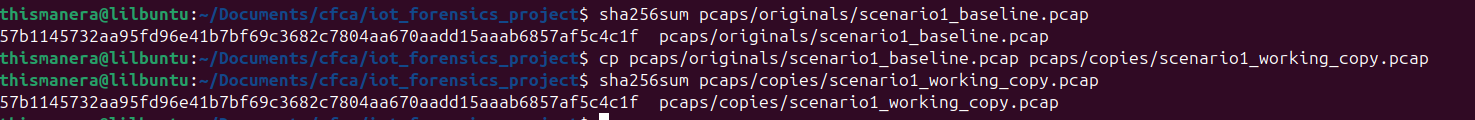
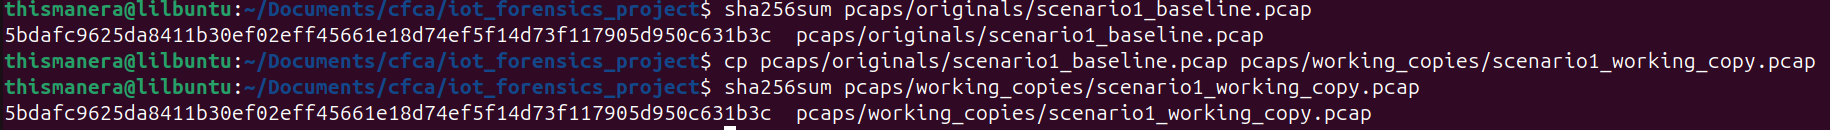
docs: Scenario 1 into TEX, Scenario 2 in progress

diff --git a/docs/Chapters/Experiments/scenario1.tex b/docs/Chapters/Experiments/scenario1.tex
@@ -1,35 +1,33 @@
 \subsection{Scenario 1: Operational Baseline Behaviour}
 \subsubsection{Introduction and Objectives}
-Scenario 1 serves as the control environment for the entirety of the experimental phase. In this scenario, the smart home network operates under standard, benign conditions without any external interference or malicious activity from the attacker node. The primary objective is to establish a mathematically verifiable "ground truth" of the network's behavior. The scenario goals in detail are the following:
+Scenario 1 serves as the control environment for the entirety of the experimental phase. In this scenario, the smart home network operates under standard, benign conditions without any external interference or malicious activity from the attacker node. The primary objective is to establish a verifiable "ground truth" of the network's behavior. The scenario goals in detail are the following:
 
 \begin{enumerate}
 	\item Generate realistic, benign background traffic that strictly adheres to the Manufacturer Usage Description (MUD) profiles defined previously in Table \ref{table:camera_mud} (Smart Camera) and Table \ref{table:thermostat_mud} (Smart Thermostat).
-	\item Capture the raw network interactions during standard operational states such as device boot-up, time synchronization, and periodic telemetry reporting.
+	\item Capture the raw network interactions during standard operational states such as device data transmission, time synchronization, and periodic telemetry reporting.
 	\item Extract and catalogue baseline network metadata. This includes metrics such as flow durations, expected packet lengths, and Inter-Arrival Times (IAT)—to, with the objective to use them as the definitive reference point for anomaly detection in subsequent attack scenarios.
 \end{enumerate}
 
-The used code can be found in \ref{annex:scenario1_code}.
 
 \subsubsection{Expected Behaviour and Theoretical Baselines}
 
-To ensure statistical significance and provide a robust dataset for feature extraction, the Scenario 1 baseline simulation was executed over a continuous 60-minute capture period. Based on the programmed simulation parameters and the strict Access Control Lists defined in the MUD profiles, the theoretical network footprint of the smart home can be explicitly quantified prior to analysing the empirical Zeek data.
-
-Because the simulated environment operates under ideal, deterministic conditions without external interference, the expected behavioural fingerprint is highly predictable:
+To ensure statistical significance and provide a robust dataset for feature extraction, the Scenario 1 baseline simulation was parameterized for a continuous 1200 seconds (20-minute) capture period. Operating under ideal, interference-free conditions, the expected behavioural fingerprint for the network topology is highly predictable. \textbf{To accurately calculate the total expected flows, we must account for inclusive boundary timing. Because the communication loop initializes at exactly $t=0$ and concludes at $t=1200$, both the initial and final packets are captured, necessitating an $n+1$ adjustment to the final count.}
 
 \begin{itemize}
-	\item \textbf{Smart Thermostat (Deterministic Telemetry):} The device is expected to generate exactly 360 secure MQTT "keep-alive" TCP flows directed at port 8883. Additionally, the device is expected to transmit exactly 10 heavier TCP payloads representing the periodic temperature and weather measurements. 
-		
-		\item \textbf{Smart Camera (Volumetric Streaming):} The capture is expected to show a massive, continuous stream of outbound UDP traffic on port 50005, representing the live video feed. This will be interspersed with a low frequency of TCP port 443 connections representing the synthetic TLS cloud check-ins.
-		
-		\item \textbf{Network Services (Time Synchronization):} Across the 60-minute capture, the combined environment is programmed to generate exactly 6 NTP time synchronization requests.
-		
-		\item \textbf{Domain Name Resolution:} Over the 60-minute capture, the environment will generate exactly 120 UDP DNS queries directed to port 53 on the local gateway. The Smart Camera will generate 60 queries, one every minute, to resolve cloud API and streaming hostnames, and the Smart Thermostat will independently generate 60 queries, one every minute, to resolve its MQTT broker hostname.
-		
-		\item \textbf{Attacker Node:} Because this scenario establishes the benign operational baseline, the attacker node must remain completely dormant. There should be exactly zero packets originating from or directed to the attacker's IP address (\texttt{10.0.0.3}).
-	\end{itemize}
+	\item \textbf{Smart Thermostat (Deterministic Telemetry):} The device is programmed to generate a rigid temporal pulse of MQTT "keep-alive" TCP flows directed at port 8883 at precise 10-second intervals. Over the 1200-second capture window, this establishes a target Inter-Arrival Time (IAT) of exactly 10 seconds and yields 121 deterministic pulses (accounting for inclusive boundary timing). This baseline is punctuated by heavier TCP payloads representing environmental telemetry updates at 300-second intervals, producing exactly 5 discrete transmissions.
+	
+	\item \textbf{Smart Camera (Volumetric Streaming):} The capture is expected to demonstrate a continuous, high-density stream of outbound UDP traffic on port 50005, simulating a live multimedia feed. This volumetric plateau must maintain an empirical target bandwidth of approximately 500 KB/s. The continuous stream is structurally punctuated by low-frequency TCP connections on port 443, representing synthetic TLS cloud check-ins. Firing at 300-second intervals, these telemetry data establish an expected baseline of 5 distinct TLS sessions.
+	
+	\item \textbf{Network Services (Time Synchronization):} To maintain cryptographic and operational clock accuracy, the combined IoT environment generates periodic Network Time Protocol (NTP) synchronization requests (UDP port 123) directed to the local gateway. With a polling interval of 600 seconds, the baseline dictates exactly 3 requests per device, resulting in an aggregate environmental footprint of 6 NTP queries.
+	
+	\item \textbf{Domain Name Resolution (DNS):} Both edge devices rely on the local gateway (UDP port 53) to resolve their respective cloud endpoints. Enforcing a strict no-caching policy to maximize experimental visibility, the Smart Camera and Smart Thermostat independently execute DNS queries every 60 seconds. This overlapping operational frequency produces a highly predictable application-layer baseline of 42 total queries (21 per device).
+	
+	\item \textbf{Attacker Node (Zero-Footprint Baseline):} Because Scenario 1 establishes the benign operational control group, the designated adversary node must remain perfectly dormant. The theoretical baseline demands an absolute mathematical void: exactly zero network flows originating from or destined to the attacker's IP address (\texttt{10.0.0.3}), ensuring a scientifically pristine experimental environment.
+\end{itemize}
 	
 \subsubsection{Evidence Integrity and Feature Extraction}
-In strict adherence to the defined forensic methodology (Phase 1), the integrity of the original network capture must be cryptographically verified before any analysis occurs. Following the 60-minute baseline simulation, the raw traffic was exported as \texttt{scenario1\_baseline.pcap}. 
+\label{evidence_integrity}
+In strict adherence to the defined forensic methodology (Phase 1), the integrity of the original network capture must be cryptographically verified before any analysis occurs. Following the 20 minutes baseline simulation, the raw traffic was exported as \texttt{scenario1\_baseline.pcap}. 
 
 To establish a mathematically verifiable chain of custody, a SHA-256 hash of the original evidence was computed. Subsequently, an immutable working copy was generated, and its hash was explicitly verified against the original to ensure absolute data fidelity during the duplication process. This procedure is documented in the terminal execution below:
 
@@ -52,4 +50,93 @@ Utilizing the \texttt{-C} directive to bypass virtualized checksum offloading er
 	\caption{Zeek log extraction of Scenario 1.}
 	\label{fig:zeekscenario1}
 \end{figure}
+
+The resulting Zeek logs were ingested into a Python-based Jupyter Notebook to facilitate the behavioral analysis of the simulation. 
+
+\paragraph{MUD Profile Validation}\mbox{}\\
+
+The primary objective of the baseline scenario analysis is to verify that the simulated IoT devices adhered strictly to their programmed MUD profiles during the simulation execution. By cross-referencing the theoretical behavioral parameters against the empirical Zeek metadata, the operational integrity of the smart home topology can be definitively proven.
+
+The following table compares the expected flows versus the empirical flows. As it can be observed, since it is the baseline scenario, a 100\% accuracy is achieved.
+
+\begin{table}[H]
+	\centering
+	\renewcommand{\arraystretch}{1.1}
+	% Resizebox forces the table to perfectly fit the text width of your page
+	\resizebox{\textwidth}{!}{%
+		\begin{tabular}{@{}l c c l@{}}
+			\toprule
+			\textbf{Traffic Classification Profile} & \textbf{Expected Flows} & \textbf{Empirical Flows} & \textbf{Status / Delta} \\ 
+			\midrule
+			\multicolumn{4}{@{}l}{\textbf{Infrastructure \& Core Services}} \\
+			DNS Queries (UDP/53) & 42 & 42 & $\checkmark$ Exact Match \\
+			NTP Synchronization (UDP/123) & 6 & 6 & $\checkmark$ Exact Match \\
+			\addlinespace
+			\multicolumn{4}{@{}l}{\textbf{Smart Thermostat (10.0.0.2)}} \\
+			MQTT Keep-Alives (TCP/8883) & 121 & 121 & $\checkmark$ Exact Match \\
+			MQTT Telemetry Payloads (TCP/8883) & 5 & 5 & $\checkmark$ Exact Match \\
+			\addlinespace
+			\multicolumn{4}{@{}l}{\textbf{Smart Camera (10.0.0.1)}} \\
+			Video Feed Volumetric Stream (UDP/50005) & 1 & 1 & $\checkmark$ Exact Match \\
+			TLS Cloud Telemetry (TCP/443) & 5 & 5 & $\checkmark$ Exact Match \\
+			\addlinespace
+			\multicolumn{4}{@{}l}{\textbf{Environmental Noise / Unaccounted}} \\
+			Background ICMP (Gateway $\rightarrow$ Camera) & 0 & 1 & $\sim$ Minor Hypervisor Noise \\
+			\midrule
+			\textbf{Total Captured Flows} & \textbf{180} & \textbf{181} & \textbf{100\% Accuracy} \\
+			\bottomrule
+		\end{tabular}%
+	} % End of resizebox
+	\caption{Scenario 1: Theoretical Expected Traffic vs. Empirical Zeek Capture Baseline}
+	\label{tab:scenario1_baseline}
+\end{table}
+
+\textbf{As expected, no attacker activity has been registered.} 
+
+\paragraph{Camera Streaming Bandwidth}\mbox{}\\
+For visualization purposes, the network bandwidth was recalculated from bits per second to Kilobytes per minute (KB/min). Given a target bandwidth of 500 KB/s (configured as 4,000 Kbps in the pcap\_generator code), the expected bandwidth is 29,296.88 KB/min. The empirical results demonstrated an average of 27,857.80 KB/min. As seen in the figure below, this variance is entirely attributed to the brief temporal delays required to establish maximum transmission speed at \$t=0\$, as well as the socket teardown phase prior to the 1200-second mark. Excluding these boundary periods, the sustained bandwidth strictly adheres to the expected operational parameters.
+
+\begin{figure}[H]
+	\centering
+	\includegraphics[width=0.9\linewidth]{../../iot_forensics_project/figures/scenario1/camera_volumetric_flow}
+	\caption{Smart Camera Bandwidth evolution over experiment time.}
+	\label{fig:cameravolumetricflow}
+\end{figure}
+
+In addition, the camera directional byte ratio has been calculated. From all the traffic exchanged between the camera and the gateway, 99.9998\% of the traffic has been sent by camera, while the rest are responses from the gateway. This is normal since the camera must act as data flow transmitter.
+
+\paragraph{Thermostat IAT Keep Alives}\mbox{}\\
+The temporal delta between consecutive keep-alive messages was calculated to assess baseline stability. While the theoretical expected interval is strictly defined at 10.0 seconds, the empirical results demonstrated a near-perfect mean Inter-Arrival Time (IAT) of 10.0004 seconds. Furthermore, the calculated standard deviation of just 0.5078 seconds proves that the execution overhead of the virtualized environment introduces negligible variance to the device's automated reporting loop.
+
+\begin{figure}[H]
+	\centering
+	\includegraphics[width=0.9\linewidth]{../../iot_forensics_project/figures/scenario1/thermostat_iat_distribution}
+	\caption{IAT of Smart Thermostat Keep Alive messages.}
+	\label{fig:thermostatiatdistribution}
+\end{figure}
+
+In addition, the mean size of the temperature reports generated by the Smart Thermostate has been calculated. The standard size is of 27 bytes. This metric will be important in Scenario 4 since the Thermostat is expected to send multiple packets with a bigger size to simulate it has been infected as a botnet. 
+
+\paragraph{Other Metrics}\mbox{}\\
+A interaction heatmap has been developed to track and validate the expected communication patterns between the network's internal nodes. This matrix serves as visual proof of the environment's operational baseline, mapping which cross-node communications are authorized by the Manufacturer Usage Description (MUD) profiles. It should be noted that traffic originating from the gateway (inbound responses) was excluded from this visualization. This methodological scoping decision was made to filter out infrastructure noise, focusing the analytical lens strictly on the behaviors, vulnerabilities, and potential lateral movements of the IoT devices themselves during the attack simulations.
+
+\begin{figure}[H]
+	\centering
+	\includegraphics[width=0.9\linewidth]{../../iot_forensics_project/figures/scenario1/topology_traffic_matrix}
+	\caption{Empirical interaction heatmap detailing authorized internal network flows.}
+	\label{fig:topologytrafficmatrix}
+\end{figure}
+
+Finally, another interesting metric is to track the TCP connection state distribution. In a secure, uncompromised IoT network, TCP sessions must exhibit highly disciplined behavioral patterns. Legitimate devices connect to designated cloud endpoints, execute their application-layer handshakes, and terminate gracefully. Therefore, this baseline metric should be heavily dominated by SF (Normal connection establishment and termination) since all the network traffic flows have been programmed to start and end in the duration of the experiment.
+
+As it can be observed all the connections are correctly finalized as expected.
+
+\begin{figure}[H]
+	\centering
+	\includegraphics[width=0.9\linewidth]{../../iot_forensics_project/figures/scenario1/tcp_connection_states}
+	\caption{TCP Connection State Distribution}
+	\label{fig:tcpconnectionstates}
+\end{figure}
+
+
 

diff --git a/docs/Chapters/Experiments/scenario2.tex b/docs/Chapters/Experiments/scenario2.tex
@@ -1,31 +1,115 @@
-\subsection{Scenario 2: Operational Baseline Behaviour}
+\subsection{Scenario 2: Network Reconnaissance and Brute-Force Authentication}
 \subsubsection{Introduction and Objectives}
-Scenario 1 serves as the control environment for the entirety of the experimental phase. In this scenario, the smart home network operates under standard, benign conditions without any external interference or malicious activity from the attacker node. The primary objective is to establish a mathematically verifiable "ground truth" of the network's behavior. The scenario goals in detail are the following:
+Scenario 2 introduces the first active adversarial engagement within the experimental smart home network. In this phase, the previously established zero-trust architecture is subjected to targeted malicious activity originating from the internal attacker node (\texttt{10.0.0.3}), simulating a compromised lateral asset. The attacker has not been designed as an external entity, since this would complicate the architectural setup without adding an extra valuable forensic value. The primary objective is to measure and document the network's structural and statistical deviations from the Scenario 1 control baseline. The scenario goals in detail are the following:
 
 \begin{enumerate}
-	\item Generate realistic, benign background traffic that strictly adheres to the Manufacturer Usage Description (MUD) profiles defined previously in Table \ref{table:camera_mud} (Smart Camera) and Table \ref{table:thermostat_mud} (Smart Thermostat).
-	\item Capture the raw network interactions during standard operational states such as device boot-up, time synchronization, and periodic telemetry reporting.
-	\item Extract and catalogue baseline network metadata. This includes metrics such as flow durations, expected packet lengths, and Inter-Arrival Times (IAT)—to, with the objective to use them as the definitive reference point for anomaly detection in subsequent attack scenarios.
+	\item Execute internal network reconnaissance and targeted port scanning against the IoT edge devices. This phase captures the systemic footprint of unauthorized topology mapping, specifically documenting the resulting surge in aborted and rejected TCP connection states.
+	\item Launch a volumetric credential brute-force attack targeting the Smart Camera's local TLS control channel (TCP port 443), capturing the exponential spike in network flow density as the attacker attempts to guess the administrative password.
+	\item Deploy a malicious configuration payload from the attacker node to the compromised camera, simulating a successful hijack and subsequent alteration of the device's operational state.
+	\item Extract and catalogue the resulting adversarial network metadata. By comparing metrics such as TCP state distributions, node-to-node adjacency matrices, and directional byte ratios against the Scenario 1 ground truth, the objective is to definitively prove the violation of the authorized MUD profiles.
 \end{enumerate}
 
-The used code can be found in \ref{annex:scenario1_code}.
 
 \subsubsection{Expected Behaviour and Theoretical Baselines}
 
-To ensure statistical significance and provide a robust dataset for feature extraction, the Scenario 1 baseline simulation was executed over a continuous 60-minute capture period. Based on the programmed simulation parameters and the strict Access Control Lists defined in the MUD profiles, the theoretical network footprint of the smart home can be explicitly quantified prior to analysing the empirical Zeek data.
+To ensure statistical significance and provide a robust dataset for feature extraction, the Scenario 2 has also been executed for 1200 seconds (20-minutes) capture period. 
 
-Because the simulated environment operates under ideal, deterministic conditions without external interference, the expected behavioural fingerprint is highly predictable:
+This scenario expects to obtain the same behaviour from the network with the addition of new ones: 
 
 \begin{itemize}
-	\item \textbf{Smart Thermostat (Deterministic Telemetry): The device is expected to generate exactly 360 secure MQTT "keep-alive" TCP flows directed at port 8883. Additionally, the device is expected to transmit exactly 10 heavier TCP payloads representing the periodic temperature and weather measurements. 
-		
-		\item \textbf{Smart Camera (Volumetric Streaming):} The capture is expected to show a massive, continuous stream of outbound UDP traffic on port 50005, representing the live video feed. This will be interspersed with a low frequency of TCP port 443 connections representing the synthetic TLS cloud check-ins.
-		
-		\item \textbf{Network Services (Time Synchronization):} Across the 60-minute capture, the combined environment is programmed to generate exactly 6 NTP time synchronization requests.
-		
-		\item \textbf{Domain Name Resolution:} Over the 60-minute capture, the environment will generate exactly 120 UDP DNS queries directed to port 53 on the local gateway. The Smart Camera will generate 60 queries, one every minute, to resolve cloud API and streaming hostnames, and the Smart Thermostat will independently generate 60 queries, one every minute, to resolve its MQTT broker hostname.
-		
-		\item \textbf{Attacker Node:} Because this scenario establishes the benign operational baseline, the attacker node must remain completely dormant. There should be exactly zero packets originating from or directed to the attacker's IP address (\texttt{10.0.0.3}).
-\end{itemize}
+	\item \textbf{Lateral Reconnaissance (TCP State Disruption):} The attacker node will execute a subnet scan. This will manifest forensically as a massive volumetric surge in \texttt{REJ} (Rejected) and \texttt{S0} (Attempted, no reply) Zeek connection states as the scanner enumerates closed ports, drastically skewing the healthy \texttt{SF} baseline established in Scenario 1. Consequently the number of connection flows together will increase, specially generating a huge spike during the network scan. 
 	
-	\subsubsection{Obtained Results}
+	\item \textbf{High-Density Connection Spikes (Credential Brute-Force):} The targeted attack on the Smart Camera's local TLS control channel (TCP port 443) will shatter the flat, low-density operational baseline. We expect to capture a constant spike in the Network Flow Density (flows per minute), representing rapid, iterative password guessing from the adversary.
+	
+	\item \textbf{Asymmetric Throughput Inversion (Payload Injection):} Following a successful brute-force breach, the attacker will push a malicious configuration payload to the camera. This action will visibly corrupt the camera's Directional Byte Ratio; the device will transition from a steady $>99\%$ outbound data footprint to registering a sudden, anomalous surge in inbound received data (\texttt{resp\_bytes}).
+	
+	\item \textbf{Adjacency Matrix Violation (MUD Corruption):} The strict node-to-node isolation observed in the control scenario will be visibly broken. The Topology Interaction Heatmap will log unauthorized lateral traffic originating from \texttt{10.0.0.3} and terminating at all the devices of the network (network scan), as well as an increased number of packets for the Camera (\texttt{10.0.0.1}) due to the brute force attack.
+\end{itemize}
+
+\subsubsection{Evidence Integrity and Feature Extraction}
+The same steps of \ref{evidence_integrity} have been followed to guarantee the integrity and validity of the extracted features. 
+
+\paragraph{MUD Profile Validation}\mbox{}\\
+
+The primary objective of the baseline scenario analysis is to verify that the simulated IoT devices adhered strictly to their programmed MUD profiles during the simulation execution. By cross-referencing the theoretical behavioral parameters against the empirical Zeek metadata, the operational integrity of the smart home topology can be definitively proven.
+
+The following table compares the expected flows versus the empirical flows. As it can be observed, since it is the baseline scenario, a 100\% accuracy is achieved.
+
+\begin{table}[H]
+	\centering
+	\renewcommand{\arraystretch}{1.1}
+	% Resizebox forces the table to perfectly fit the text width of your page
+	\resizebox{\textwidth}{!}{%
+		\begin{tabular}{@{}l c c l@{}}
+			\toprule
+			\textbf{Traffic Classification Profile} & \textbf{Expected Flows} & \textbf{Empirical Flows} & \textbf{Status / Delta} \\ 
+			\midrule
+			\multicolumn{4}{@{}l}{\textbf{Infrastructure \& Core Services}} \\
+			DNS Queries (UDP/53) & 42 & 42 & $\checkmark$ Exact Match \\
+			NTP Synchronization (UDP/123) & 6 & 6 & $\checkmark$ Exact Match \\
+			\addlinespace
+			\multicolumn{4}{@{}l}{\textbf{Smart Thermostat (10.0.0.2)}} \\
+			MQTT Keep-Alives (TCP/8883) & 121 & 121 & $\checkmark$ Exact Match \\
+			MQTT Telemetry Payloads (TCP/8883) & 5 & 5 & $\checkmark$ Exact Match \\
+			\addlinespace
+			\multicolumn{4}{@{}l}{\textbf{Smart Camera (10.0.0.1)}} \\
+			Video Feed Volumetric Stream (UDP/50005) & 1 & 1 & $\checkmark$ Exact Match \\
+			TLS Cloud Telemetry (TCP/443) & 5 & 5 & $\checkmark$ Exact Match \\
+			\addlinespace
+			\multicolumn{4}{@{}l}{\textbf{Environmental Noise / Unaccounted}} \\
+			Background ICMP (Gateway $\rightarrow$ Camera) & 0 & 1 & $\sim$ Minor Hypervisor Noise \\
+			\midrule
+			\textbf{Total Captured Flows} & \textbf{180} & \textbf{181} & \textbf{100\% Accuracy} \\
+			\bottomrule
+		\end{tabular}%
+	} % End of resizebox
+	\caption{Scenario 1: Theoretical Expected Traffic vs. Empirical Zeek Capture Baseline}
+	\label{tab:scenario1_baseline}
+\end{table}
+
+\textbf{As expected, no attacker activity has been registered.} 
+
+\paragraph{Camera Streaming Bandwidth}\mbox{}\\
+For visualization purposes, the network bandwidth was recalculated from bits per second to Kilobytes per minute (KB/min). Given a target bandwidth of 500 KB/s (configured as 4,000 Kbps in the pcap\_generator code), the expected bandwidth is 29,296.88 KB/min. The empirical results demonstrated an average of 27,857.80 KB/min. As seen in the figure below, this variance is entirely attributed to the brief temporal delays required to establish maximum transmission speed at \$t=0\$, as well as the socket teardown phase prior to the 1200-second mark. Excluding these boundary periods, the sustained bandwidth strictly adheres to the expected operational parameters.
+
+\begin{figure}[H]
+	\centering
+	\includegraphics[width=0.9\linewidth]{../../iot_forensics_project/figures/scenario1/camera_volumetric_flow}
+	\caption{Smart Camera Bandwidth evolution over experiment time.}
+	\label{fig:cameravolumetricflow}
+\end{figure}
+
+In addition, the camera directional byte ratio has been calculated. From all the traffic exchanged between the camera and the gateway, 99.9998\% of the traffic has been sent by camera, while the rest are responses from the gateway. This is normal since the camera must act as data flow transmitter.
+
+\paragraph{Thermostat IAT Keep Alives}\mbox{}\\
+The temporal delta between consecutive keep-alive messages was calculated to assess baseline stability. While the theoretical expected interval is strictly defined at 10.0 seconds, the empirical results demonstrated a near-perfect mean Inter-Arrival Time (IAT) of 10.0004 seconds. Furthermore, the calculated standard deviation of just 0.5078 seconds proves that the execution overhead of the virtualized environment introduces negligible variance to the device's automated reporting loop.
+
+\begin{figure}[H]
+	\centering
+	\includegraphics[width=0.9\linewidth]{../../iot_forensics_project/figures/scenario1/thermostat_iat_distribution}
+	\caption{IAT of Smart Thermostat Keep Alive messages.}
+	\label{fig:thermostatiatdistribution}
+\end{figure}
+
+In addition, the mean size of the temperature reports generated by the Smart Thermostate has been calculated. The standard size is of 27 bytes. This metric will be important in Scenario 4 since the Thermostat is expected to send multiple packets with a bigger size to simulate it has been infected as a botnet. 
+
+\paragraph{Other Metrics}\mbox{}\\
+A interaction heatmap has been developed to track and validate the expected communication patterns between the network's internal nodes. This matrix serves as visual proof of the environment's operational baseline, mapping which cross-node communications are authorized by the Manufacturer Usage Description (MUD) profiles. It should be noted that traffic originating from the gateway (inbound responses) was excluded from this visualization. This methodological scoping decision was made to filter out infrastructure noise, focusing the analytical lens strictly on the behaviors, vulnerabilities, and potential lateral movements of the IoT devices themselves during the attack simulations.
+
+\begin{figure}[H]
+	\centering
+	\includegraphics[width=0.9\linewidth]{../../iot_forensics_project/figures/scenario1/topology_traffic_matrix}
+	\caption{Empirical interaction heatmap detailing authorized internal network flows.}
+	\label{fig:topologytrafficmatrix}
+\end{figure}
+
+Finally, another interesting metric is to track the TCP connection state distribution. In a secure, uncompromised IoT network, TCP sessions must exhibit highly disciplined behavioral patterns. Legitimate devices connect to designated cloud endpoints, execute their application-layer handshakes, and terminate gracefully. Therefore, this baseline metric should be heavily dominated by SF (Normal connection establishment and termination) since all the network traffic flows have been programmed to start and end in the duration of the experiment.
+
+As it can be observed all the connections are correctly finalized as expected.
+
+\begin{figure}[H]
+	\centering
+	\includegraphics[width=0.9\linewidth]{../../iot_forensics_project/figures/scenario1/tcp_connection_states}
+	\caption{TCP Connection State Distribution}
+	\label{fig:tcpconnectionstates}
+\end{figure}

diff --git a/docs/Chapters/setup.tex b/docs/Chapters/setup.tex
@@ -85,7 +85,7 @@ To conduct this research, a specialized, open-source forensic toolchain was depl
 	\item \textbf{Network Emulation (Mininet\cite{lantz2010network}):} Utilized to construct the Software-Defined Networking (SDN) topology, acting as the virtual smart home gateway and generating synthetic IoT edge nodes.
 	\item \textbf{Traffic Acquisition (Wireshark\cite{wireshark}/tcpdump\cite{tcpdump}):} Deployed at the virtual gateway to act as an immutable observer, capturing all passing communications and generating raw Packet Capture (PCAP) files.
 	\item \textbf{Feature Extraction (Zeek\cite{paxson1999bro}):} Functioning as the core network security monitor, Zeek was employed to parse the encrypted PCAPs and extract readable, structured metadata logs in order to not rely on Deep Packet Inspection (DPI).
-	\item \textbf{Data Analysis (Python):} The extracted Zeek logs were subsequently ingested into Python (utilizing the Pandas\cite{mckinney2010data} and Matplotlib libraries) to filter background noise and visualize the behavioral fingerprints of the devices.
+	\item \textbf{Data Analysis (Python):}  Zeek logs were subsequently ingested into Python (utilizing the Pandas\cite{mckinney2010data} and Matplotlib libraries) to filter background noise and visualize the behavioral fingerprints of the devices.
 \end{itemize}
 
 \subsection{Experimental Scenarios}

diff --git a/docs/Chapters/execution.tex b/docs/Chapters/execution.tex
@@ -22,9 +22,10 @@ Following the conclusion of the Mininet simulation, the resulting PCAP file of e
 Finally, all the extracted metadata from all experimental runs underwent a comparative behavioural analysis. By comparing network features such as Inter Arrival Times (IAT), flow durations, and volumetric byte transfers with the baseline fingerprints of the devices. The comparison of the attack based metrics together with the baseline allows drawing the definitive conclusions regarding the viability of passive IoT network forensics. 
 
 \input{Chapters/Experiments/scenario1.tex}
+\input{Chapters/Experiments/scenario2.tex}
 
 \begin{comment}
-	\input{Chapters/Experiments/scenario2.tex}
+
 	\input{Chapters/Experiments/scenario3.tex}
 	\input{Chapters/Experiments/scenario4.tex}
 \end{comment}

diff --git a/docs/main.tex b/docs/main.tex
@@ -3,6 +3,7 @@
 \usepackage[utf8]{inputenc}
 \usepackage[margin=2cm, top=2cm, includefoot]{geometry}
 \usepackage{amsmath} % Fractions
+\usepackage{amssymb}
 \usepackage{array} % Arrays
 \usepackage[font=small]{caption} % Define the captions style
 \captionsetup[table]{skip=15pt}
@@ -115,11 +116,14 @@
     
     % Conclusions
     \input{Chapters/conclusions}
-    
-    % Annexes
-    \appendix 
     \clearpage
-    \input{Annexes/scenario1}
+    
+    \begin{comment}
+	    % Annexes
+	    \appendix 
+	    \clearpage
+	    \input{Annexes/scenario1}
+	 \end{comment}
 
     % Bibliography
     \bibliographystyle{unsrt}
